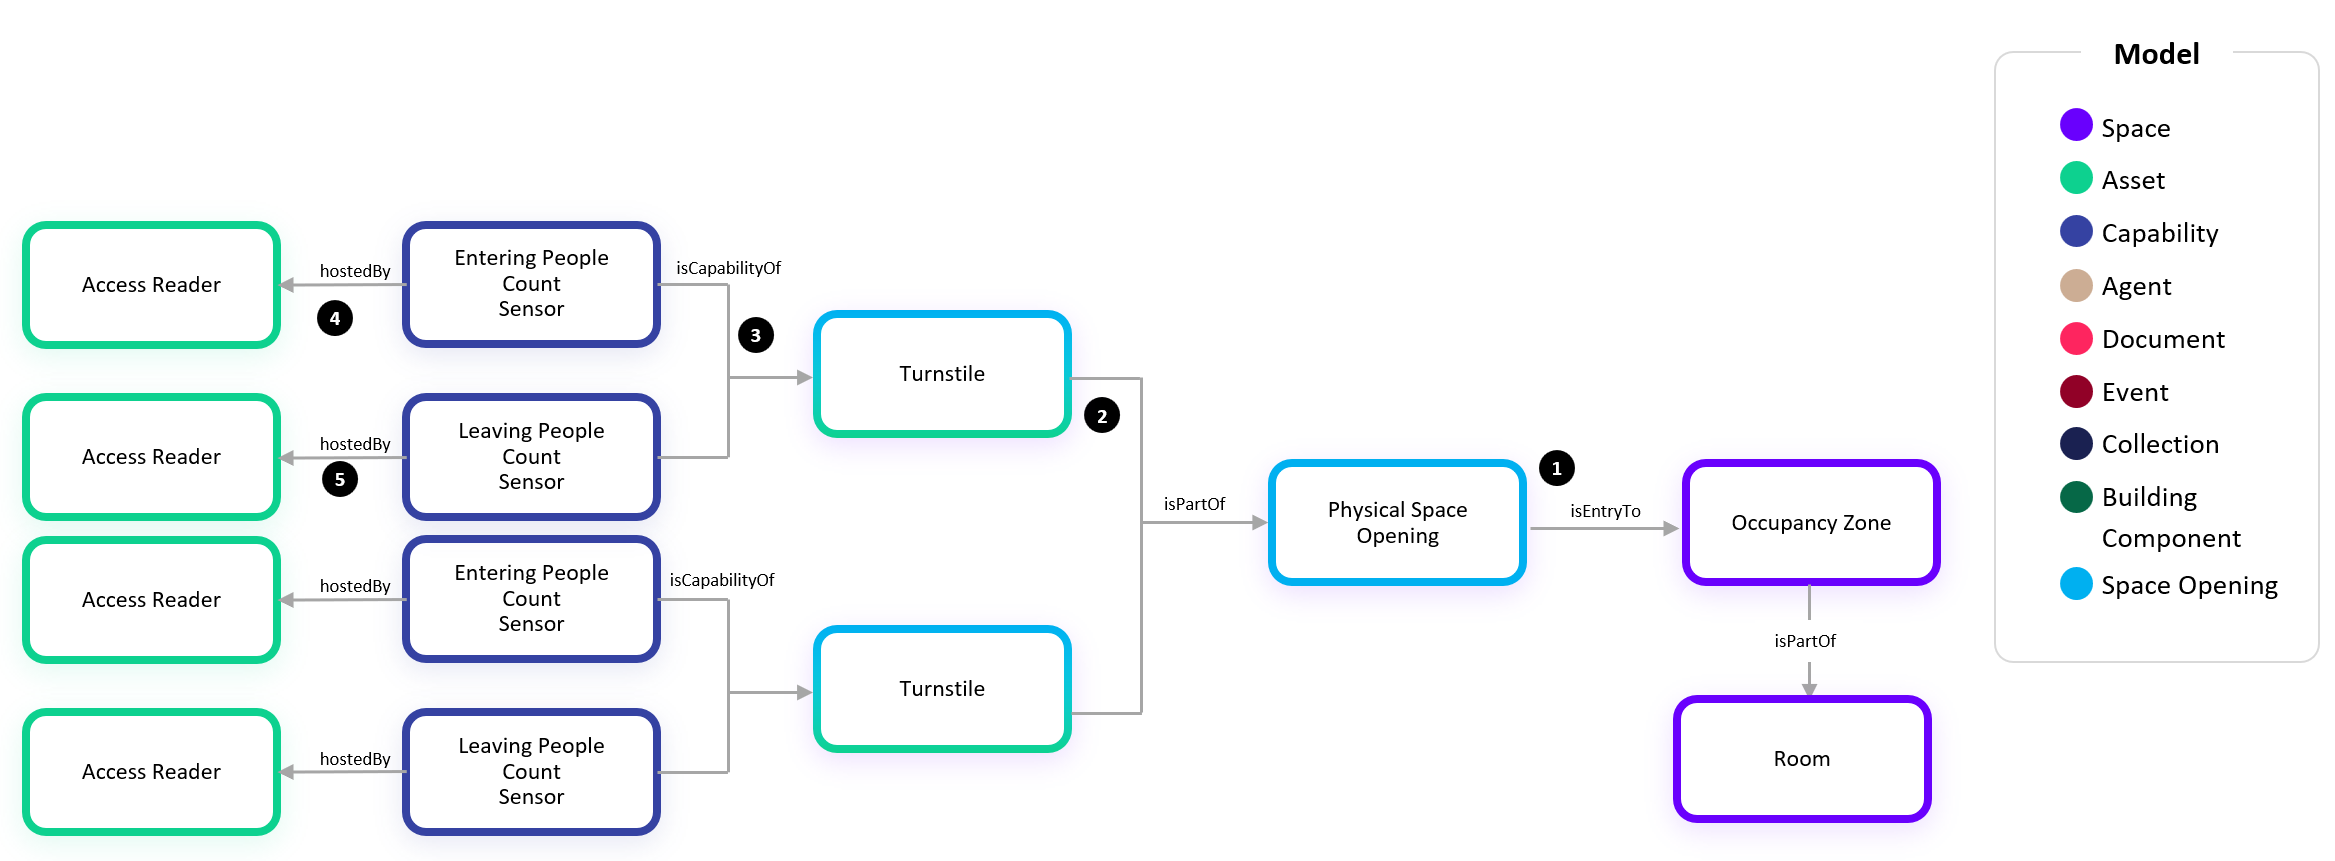
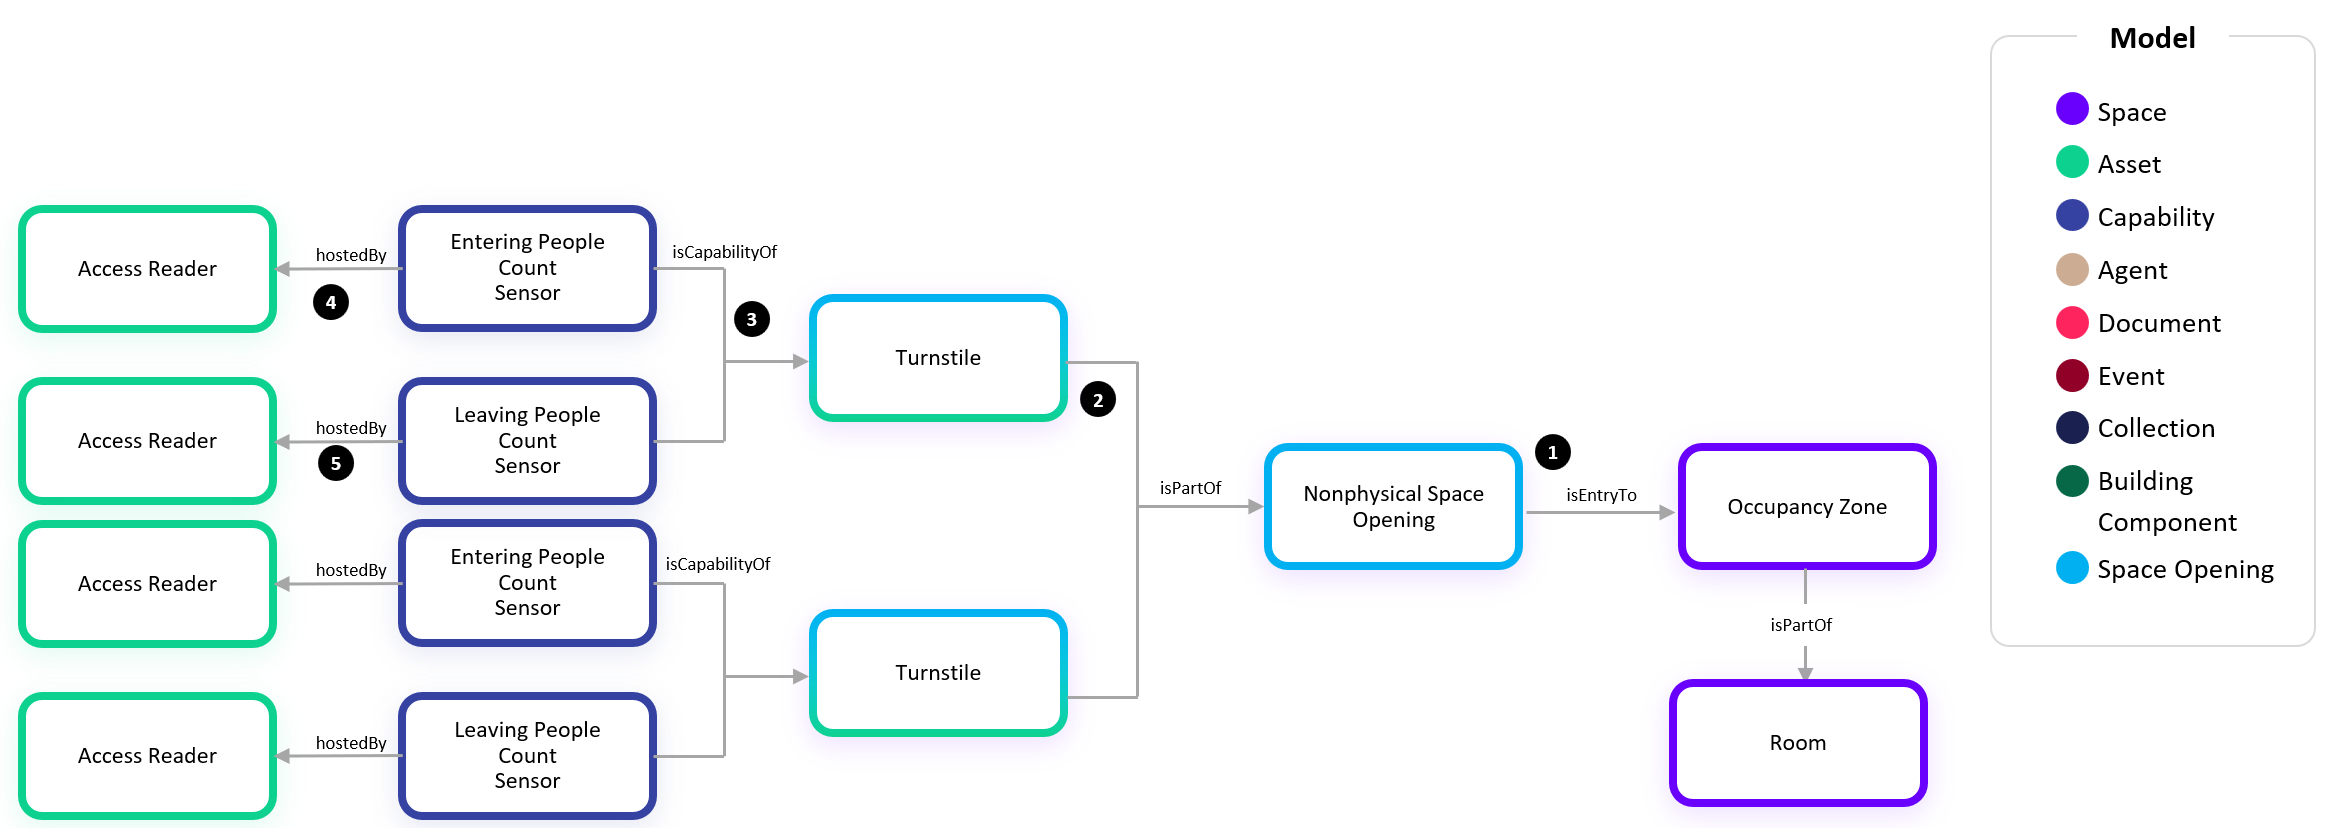
Revert physical to nonphysical opening

diff --git a/Samples/09-Occupancy.md b/Samples/09-Occupancy.md
@@ -90,7 +90,7 @@ This example depicts that an Occupancy Zone opening may be sub-divided into smal
 
 This example depicts a divided opening which has multiple turnstiles each with an entry and exit card access reader (aka badge in, badge out) to access a space such as an elevator lobby:
 
-1. As with the previous examples, the Physical Space Opening has an isEntryTo relationship to the Occupancy Zone which represents the elevator lobby.
+1. As with the previous examples, the Nonphysical Space Opening has an isEntryTo relationship to the Occupancy Zone which represents the elevator lobby.
 
 2. In this example, we have two physical space opening assets which are Turnstiles. Turnstiles are both Assets and Space Openings in the ontology.
 
